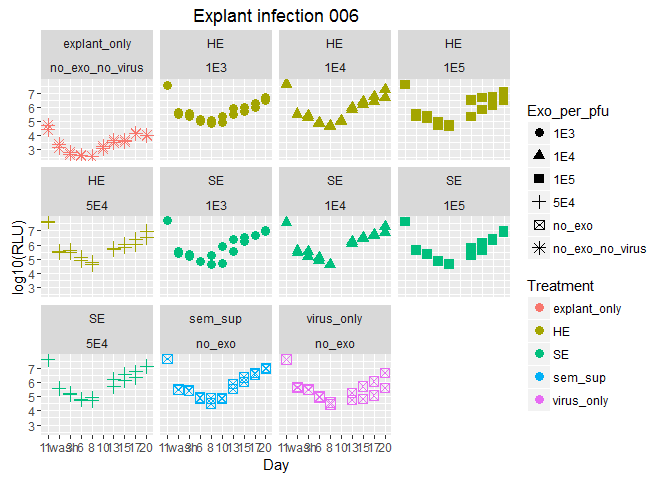
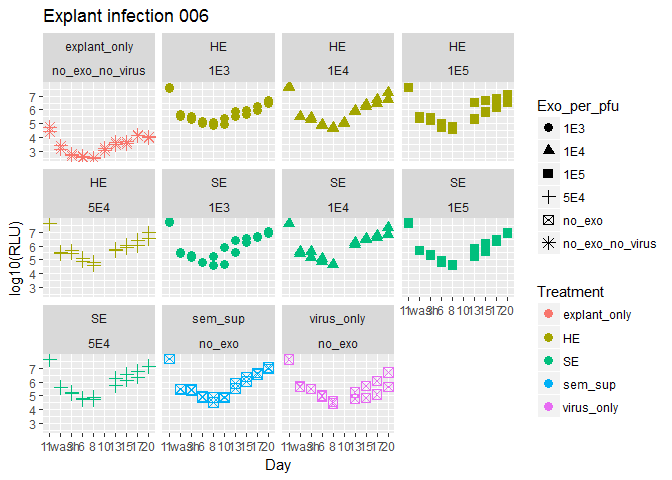
Added infection 006 to the compiled data and made a day 8 subset of the compiled data for LV

diff --git a/explant_infection_experiment_analysis.md b/explant_infection_experiment_analysis.md
@@ -18,6 +18,62 @@ Pre-incubate virus (vNL\_sNLuc.6ATRi.B.Bal.ecto) with exosomes before adding to 
 
 We also included explant only and virus only controls.
 
+``` r
+knitr::opts_chunk$set(echo = FALSE, warning = FALSE, message = FALSE)
+
+library(plyr)
+library(dplyr)
+```
+
+    ## 
+    ## Attaching package: 'dplyr'
+
+    ## The following objects are masked from 'package:plyr':
+    ## 
+    ##     arrange, count, desc, failwith, id, mutate, rename, summarise,
+    ##     summarize
+
+    ## The following objects are masked from 'package:stats':
+    ## 
+    ##     filter, lag
+
+    ## The following objects are masked from 'package:base':
+    ## 
+    ##     intersect, setdiff, setequal, union
+
+``` r
+library(plater)
+library(ggplot2)
+library(stringr)
+
+options(scipen = 999)
+
+explant_infection_001<-read_plate("../Explant_infection_001/20Sept16_infection001_layout_and_data.csv")
+
+
+explant_infection_001<-explant_infection_001%>%
+  mutate(Day = str_trim(Day, side = "both"))
+
+#function for ordering day factors nicely:
+orderDays<- function(exp_df){
+  factor(exp_df$Day, levels = c("1","1 wash","3","6","8","10","13","15","17","20"))
+}
+
+explant_infection_001$Day<-orderDays(explant_infection_001)
+
+#Map the exo per pfu values so they will match the later experiments
+
+explant_infection_001$Exo_per_pfu <- mapvalues(explant_infection_001$Exo_per_pfu, from = c("1.0E+04","1.0E+05"), to = c("1E4","1E5"))
+
+
+
+
+ggplot(explant_infection_001, aes(x = Day, y = log10(RLU)))+
+  geom_point(aes(color = Treatment,shape = Exo_per_pfu),size = 3)+
+  geom_line(aes(group = interaction(Treatment, Exo_per_pfu),color = Treatment))+
+ggtitle("Explant infection 001")
+```
+
 ![](explant_infection_experiment_analysis_files/figure-markdown_github/infection%20001-1.png)
 
 Explant infection 002
@@ -105,4 +161,4 @@ First check how the replicates look ![](explant_infection_experiment_analysis_fi
 
 Compilations of results from multiple experiments (not including 006) arranged in a variety of ways:
 
-![](explant_infection_experiment_analysis_files/figure-markdown_github/compilation%20plots-1.png)![](explant_infection_experiment_analysis_files/figure-markdown_github/compilation%20plots-2.png)
+![](explant_infection_experiment_analysis_files/figure-markdown_github/compilation%20plots-1.png)
